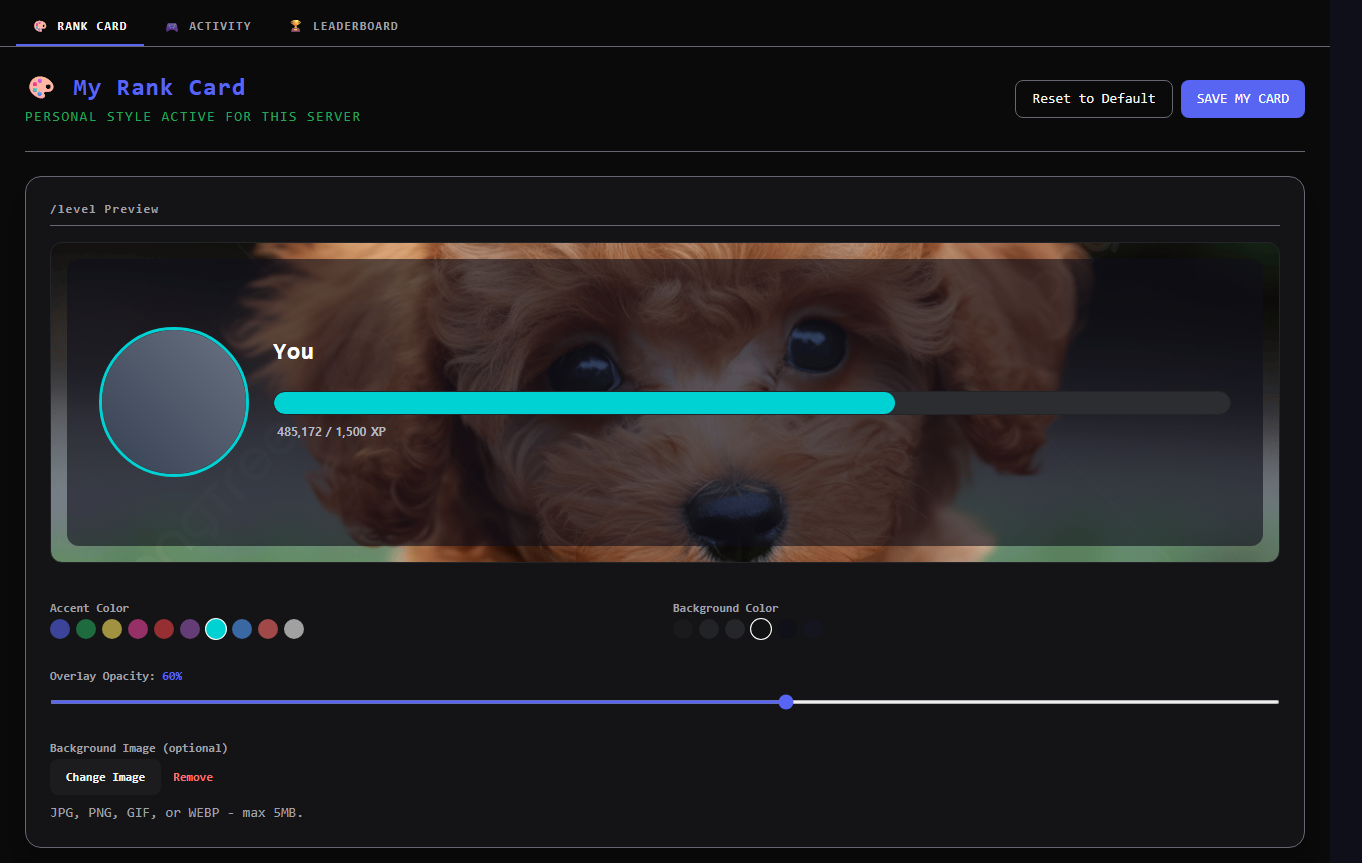
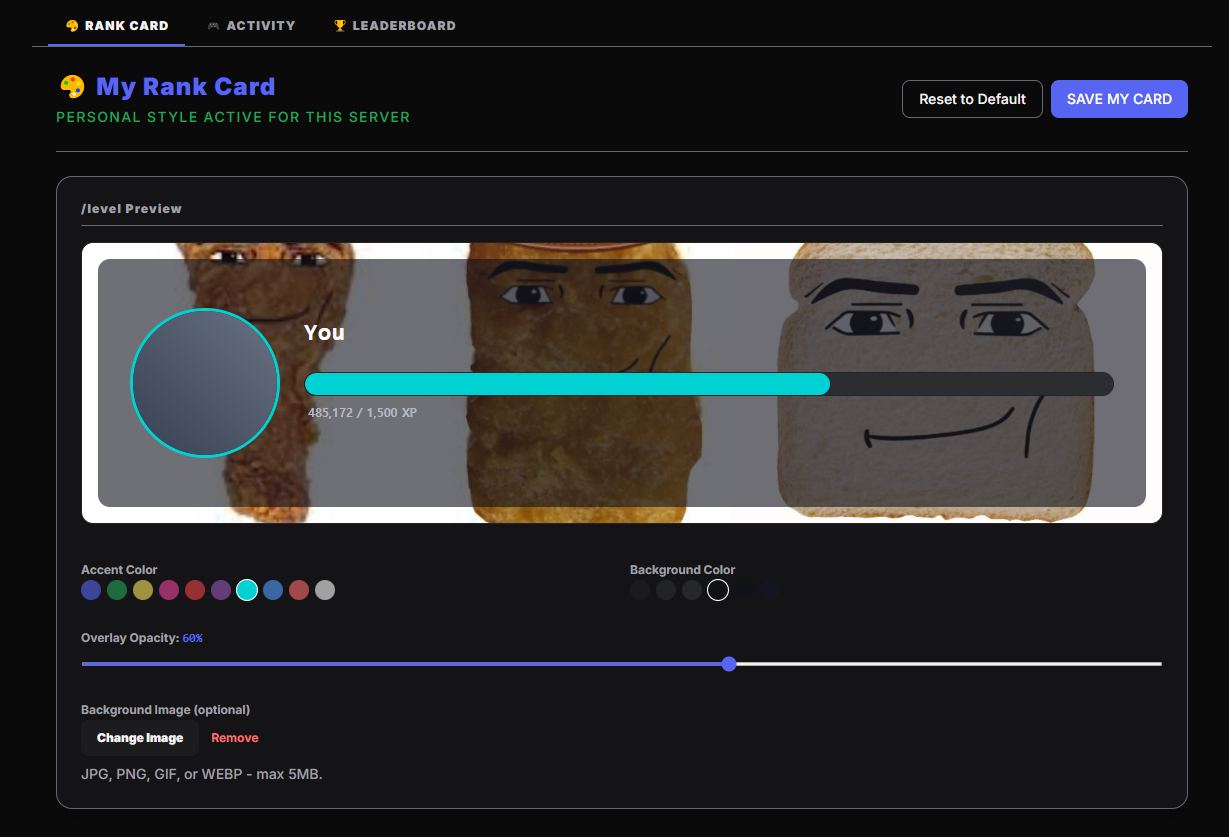
content: recapture rank-card-setup screenshots with new background and teal accent
The committed rank-card-setup-{en,ko}.png still showed a stale coral
accent color instead of the teal (#00D2D3) + new background photo just
saved on the test server - discovered via a fresh reload during
verification, not a caching artifact. Set the teal accent directly on the
live settings page and confirmed it persisted before recapturing.

Recaptured both via a real authenticated session (no stored Playwright
session existed on this machine, so logged in through a visible Edge
window), cropped to the tab bar through the bottom of the settings card
excluding the left sidebar rail, matching the existing convention
(1229x837, ~35% smaller than the files they replace at 262-271KB, true
lossless truecolor PNG - a palette-based recompression attempt was
rejected since the photo has 300+ unique colors, making it actually lossy
despite being smaller).

app/page.tsx: updated RANK_CARD_SHOWCASE.setupImageWidth/setupImageHeight
to the new files' real dimensions.

Verified: tsc --noEmit; teal accent + new background confirmed in the
capture; landing page renders both files correctly across dark/light x
EN/KO with no layout breakage (worked around two dev-only quirks hit
during verification: a stale Next.js image-optimization cache needing a
dev server restart, and next/image's lazy loading never triggering
because window.scrollTo doesn't work in this CDP session, worked around
via loading="eager" + captureBeyondViewport).

diff --git a/app/page.tsx b/app/page.tsx
@@ -191,10 +191,10 @@ const RANK_CARD_SHOWCASE = {
   imageHeight: 240,
   setupLocalizedBaseName: 'rank-card-setup',
   setupFutureImageSrc: '/images/features/rank-card-setup.png',
-  // 🛡 rank-card-setup-en.png/-ko.png 실측(1362x863, 둘이 정확히 같음) - 레이아웃 예약용 근사치일
+  // 🛡 rank-card-setup-en.png/-ko.png 실측(1229x837, 둘이 정확히 같음) - 레이아웃 예약용 근사치일
   // 뿐이지만(w-full h-auto가 실제 로드된 크기를 그대로 따라감), 재캡처 후 실측치로 갱신해둔다.
-  setupImageWidth: 1362,
-  setupImageHeight: 863,
+  setupImageWidth: 1229,
+  setupImageHeight: 837,
 } as const;
 
 interface DiscordGuild {
